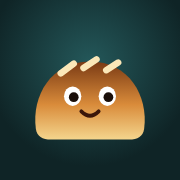
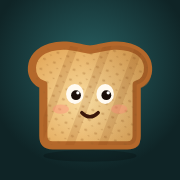
Íconos de la app con la rebanada medio tostada
Claude-Session: https://claude.ai/code/session_01BhDcu4MtFbJ3Aq8xodkTUv

diff --git a/index.html b/index.html
@@ -6,8 +6,8 @@
     <title>En la puerta del horno se quema el pan</title>
     <meta name="description" content="Sube las capturas de tus notas de SEDUCA y calcula tu promedio y lo que necesitas para no quedarte (nota mínima 3.0)." />
     <meta name="theme-color" content="#0f2426" />
-    <link rel="icon" href="/favicon.svg" type="image/svg+xml" />
-    <link rel="apple-touch-icon" href="/icon-180.png" />
+    <link rel="icon" href="/favicon.svg?v=2" type="image/svg+xml" />
+    <link rel="apple-touch-icon" href="/icon-180.png?v=2" />
     <link rel="manifest" href="/manifest.webmanifest" />
     <meta name="apple-mobile-web-app-capable" content="yes" />
     <meta name="apple-mobile-web-app-title" content="Horno de notas" />
